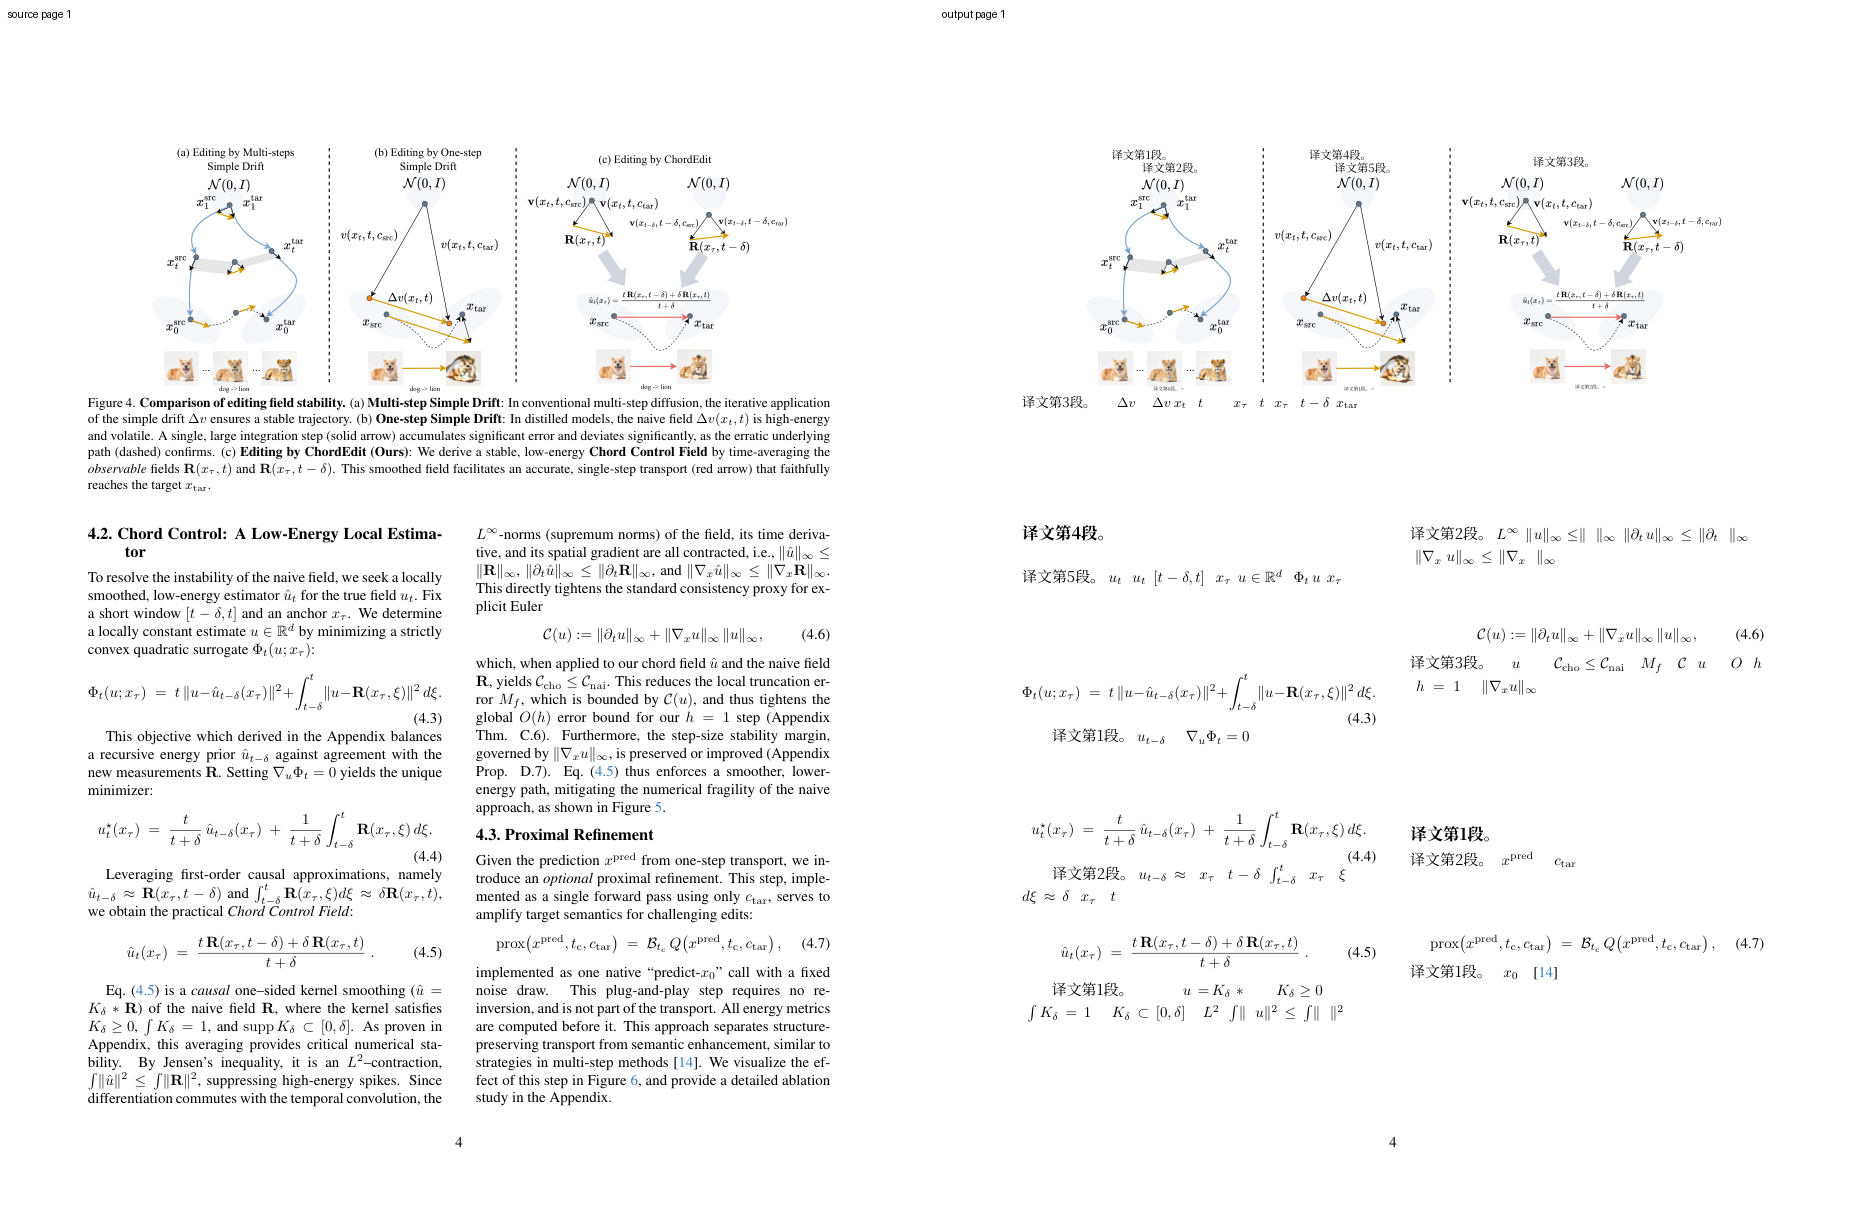
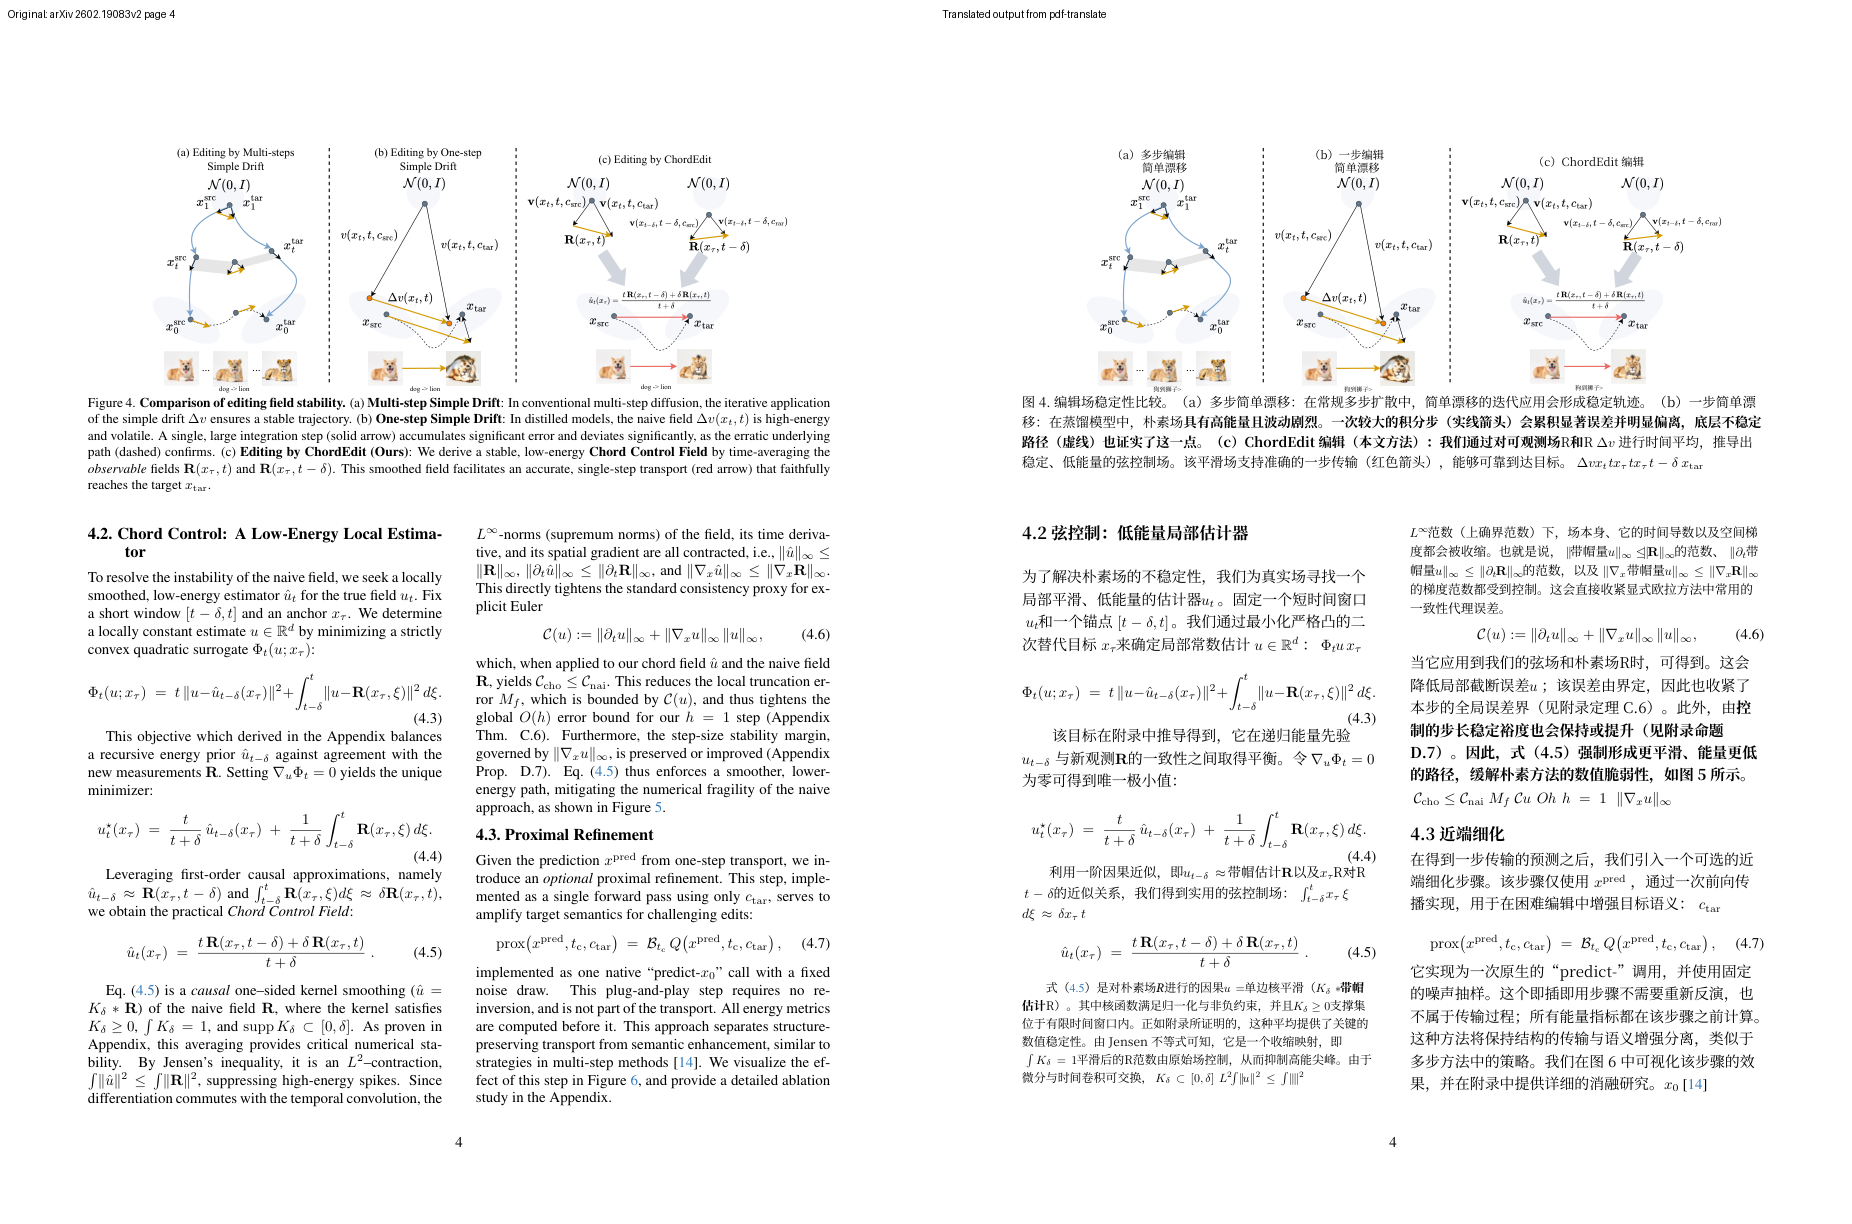
docs(readme): replace placeholder example with real translation

diff --git a/README.md b/README.md
@@ -4,7 +4,7 @@ A file-backed agent skill for translating technical PDFs while preserving the or
 
 ![Original PDF page beside translated PDF page](docs/example-page.png)
 
-The example above uses page 4 from `2602.19083v2.pdf`: the original page is on the left, and the translated output generated by this skill is on the right.
+The example above uses page 4 of [arXiv:2602.19083v2](https://arxiv.org/abs/2602.19083v2): the original page is on the left, and the translated output generated by this skill is on the right.
 
 ## What It Does
 